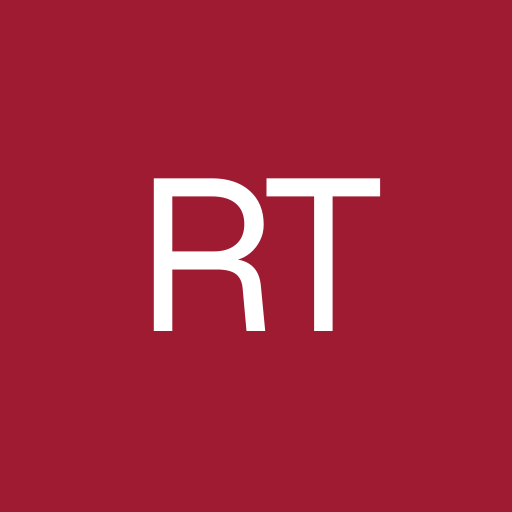
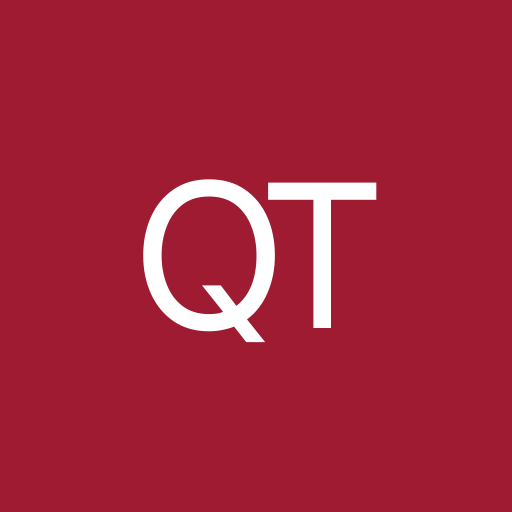
feat: name the product Quad Tutor
"Roll Tutor" played on a registered mark. ROLL TIDE is registered to the Board
of Trustees of the University of Alabama and the university's licensing policy
claims control over marks that can be associated with it, with cease-and-desist
as a stated remedy. A name evoking the slogan, in the university's crimson,
sold to its students for money, stacks the likelihood-of-confusion factors
about as unfavourably as a small product can.

"Quad" carries the same campus-native meaning without borrowing anyone's mark.
The Quad is where students actually are, which is also where a peer tutor is,
so the name says the premise rather than referencing it.

Same nine strings and five icons as the previous rename; the mark is now "QT".

Changed region(s): [[0.2812, 0.3438, 0.75, 0.6875]]

diff --git a/src/app/manifest.ts b/src/app/manifest.ts
@@ -13,14 +13,14 @@ import type { MetadataRoute } from "next";
  * redirects — to sign-in when signed out, to `/courses` when signed in — and
  * launching into a redirect costs a frame of nothing on a cold start.
  *
- * The mark is a placeholder: crimson field, white "RT". It is deliberately not
+ * The mark is a placeholder: crimson field, white "QT". It is deliberately not
  * a logo, and it is here so the installed app is not wearing the framework's
  * default icon. Replace `public/icon-*.png` when there is a real one.
  */
 export default function manifest(): MetadataRoute.Manifest {
   return {
-    name: "Roll Tutor",
-    short_name: "Roll Tutor",
+    name: "Quad Tutor",
+    short_name: "Quad Tutor",
     description:
       "Peer tutors who already took your course — under your professor.",
     start_url: "/courses",

diff --git a/src/app/(auth)/sign-in/sign-in-form.tsx b/src/app/(auth)/sign-in/sign-in-form.tsx
@@ -18,7 +18,7 @@ type State =
  * the last successful send means they do not, and the intake stays under its
  * budget on the second visit as well as the first.
  */
-const NAME_KEY = "roll-tutor:name";
+const NAME_KEY = "quad-tutor:name";
 
 export function SignInForm() {
   const nameId = useId();
@@ -105,7 +105,7 @@ export function SignInForm() {
       <Field
         id={emailId}
         label="University email"
-        hint="Roll Tutor is live at the University of Alabama. Your .edu address is the verification."
+        hint="Quad Tutor is live at the University of Alabama. Your .edu address is the verification."
         error={state.status === "error" ? state.message : undefined}
       >
         <Input

diff --git a/src/app/(auth)/sign-in/page.tsx b/src/app/(auth)/sign-in/page.tsx
@@ -35,7 +35,7 @@ export default async function SignInPage(props: PageProps<"/sign-in">) {
   return (
     <div className="flex flex-col gap-6">
       <div className="flex flex-col gap-2">
-        <h1 className="text-2xl font-semibold tracking-tight">Roll Tutor</h1>
+        <h1 className="text-2xl font-semibold tracking-tight">Quad Tutor</h1>
         <p className="text-base text-muted">
           Peer tutors who already took your course — under your professor.
         </p>

diff --git a/src/components/app-shell.tsx b/src/components/app-shell.tsx
@@ -41,7 +41,7 @@ export function AppShell({
             href={home}
             className="shrink-0 rounded-lg text-sm font-semibold tracking-tight focus-visible:outline-none focus-visible:ring-2 focus-visible:ring-accent focus-visible:ring-offset-2 focus-visible:ring-offset-background sm:text-base"
           >
-            Roll Tutor
+            Quad Tutor
           </Link>
 
           {/*

diff --git a/src/app/layout.tsx b/src/app/layout.tsx
@@ -14,8 +14,8 @@ const geistMono = Geist_Mono({
 
 export const metadata: Metadata = {
   title: {
-    default: "Roll Tutor",
-    template: "%s · Roll Tutor",
+    default: "Quad Tutor",
+    template: "%s · Quad Tutor",
   },
   description:
     "Find a tutor who already took your course, under your professor, at the University of Alabama.",
